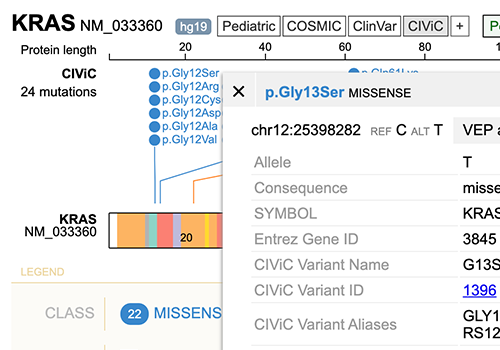
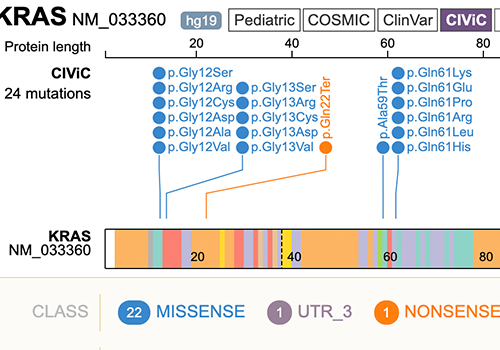
updated homepage ProteinPaint and YouTube text, links

diff --git a/src/app/pages/home.tpl.html b/src/app/pages/home.tpl.html
@@ -57,15 +57,15 @@
     <div class="col-xs-12 col-md-6" >
       <div class="announcement" >
         <div class="announcement-body" style="margin-bottom: 1em;">
-          <p class="date">March 26th, 2020</p>
+          <p class="date">June 29th, 2020</p>
           <div class="row" >
             <div class="col-xs-6">
-              <a href="https://proteinpaint.stjude.org/?gene=KRAS&dataset=civic" target="_blank"><img src="assets/images/partners/protein-paint-integration.png" class="img-responsive" width="500" height="350" style="margin-right: 10px; float: left;" /></a>
+              <a href="https://proteinpaint.stjude.org/?gene=kras&dataset=civic" target="_blank"><img src="assets/images/partners/protein-paint-integration.png" class="img-responsive" width="500" height="350" style="margin-right: 10px; float: left;" /></a>
             </div>
             <div class="col-xs-6">
               <p>
                 <span style="color:#faa51b;">Explore CIViC Variants in ProteinPaint:</span>
-                St. Jude's <a href="https://www.stjude.org/research/shared-resources/technology-licensing/technologies/proteinpaint-web-application-for-visualizing-genomic-data-sj-15-0021.html" tartet="_blank">ProteinPaint</a> now incorporates a CIViC variant track, displaying CIViC curated data along with a variety of additional sources, and providing one-click access to CIViC's variant summaries. We've also added ProteinPaint links to <a href="https://civicdb.org/links/gene/30" target="_blank" uib-tooltip="KRAS">our</a> <a href="https://civicdb.org/links/gene/5" target="_blank" uib-tooltip="BRAF">gene</a> <a href="https://civicdb.org/links/gene/4" target="_blank" uib-tooltip="ABL1">summaries</a>.
+                St. Jude's <a href="https://pecan.stjude.cloud/proteinpaint/" uib-tooltip="ProteinPaint Information" target="_blank">ProteinPaint</a> now incorporates a CIViC variant track, <a href="https://proteinpaint.stjude.org/?gene=kras&dataset=civic" uib-tooltip="KRAS ProteinPaint View" target="_blank">displaying CIViC curated data</a> along with a variety of additional sources, and providing one-click access to CIViC's variant summaries. We've also added ProteinPaint links to <a href="https://civicdb.org/links/gene/30" target="_blank" uib-tooltip="KRAS CIViC View">our</a> <a href="https://civicdb.org/links/gene/5" target="_blank" uib-tooltip="BRAF CIViC View">gene</a> <a href="https://civicdb.org/links/gene/4" target="_blank" uib-tooltip="ABL1 CIViC View">summaries</a>.
               </p>
             </div>
           </div>
@@ -78,7 +78,8 @@
           <p class="date">May 20th, 2019</p>
           <p><span style="color:#faa51b;">New YouTube Tutorials:</span> We've updated the <a href="https://www.youtube.com/playlist?list=PLImz36orVFPCQjx6wjMrYW-IPWGk8HrbX" target="_blank" uib-tooltip="CIViC Tutorials Playlist">CIViC Help playlist</a> with a variety of new video tutorials, helping you to <a href="https://www.youtube.com/watch?v=Vr0BDUKkDeI&list=PLImz36orVFPCQjx6wjMrYW-IPWGk8HrbX&index=2" target="_blank" uib-tooltip="CIViC tutorial - getting started" target="_blank">get started</a> collaborating with us</a> by <a href="https://www.youtube.com/watch?v=7MCWt9qB528&list=PLImz36orVFPCQjx6wjMrYW-IPWGk8HrbX&index=9" target="_blank" uib-tooltip="Collaborating with CIViC Source Suggestions">suggesting sources</a>, <a href="https://www.youtube.com/watch?v=od5Tgdfo6Qs&list=PLImz36orVFPCQjx6wjMrYW-IPWGk8HrbX&index=3" target="_blank" uib-tooltip="CIViC tutorial - Adding evidence">adding</a> and <a href="https://www.youtube.com/watch?v=uss4R20ymPA&list=PLImz36orVFPCQjx6wjMrYW-IPWGk8HrbX&index=3" target="_blank" uib-tooltip="CIViC tutorial - Editing">editing evidence</a>, <a href="https://www.youtube.com/watch?v=Nx8yMcbE2PA&list=PLImz36orVFPCQjx6wjMrYW-IPWGk8HrbX&index=7" target="_blank" uib-tooltip="Adoption of Variant Interpretation Standards and Guidelines in CIViC">and</a> <a href="https://www.youtube.com/watch?v=XVO2_amcF4I&list=PLImz36orVFPCQjx6wjMrYW-IPWGk8HrbX&index=5" target="_blank" uib-tooltip="Collaborating with CIViC Assertions">more</a>. Also, we've produced videos that provide details about our <a href="https://www.youtube.com/watch?v=hGPd1R4-dfQ&list=PLImz36orVFPCQjx6wjMrYW-IPWGk8HrbX&index=6" target="_blank" uib-tooltip="Collaboration between ClinGen Somatic Cancer Clinical Domain Working Group and CIViC">collaborations with ClinGen Working Groups</a> and <a href="https://www.youtube.com/watch?v=nSm-WHpgLCI&list=PLImz36orVFPCQjx6wjMrYW-IPWGk8HrbX&index=4" target="_blank" uib-tooltip="Collaborative Opportunities in CIViC">a new introdution to CIViC collaboration opportunities</a>.
           </p>
-          <p>Please watch the <a href="https://www.youtube.com/playlist?list=PLImz36orVFPCQjx6wjMrYW-IPWGk8HrbX" target="_blank" uib-tooltip="CIViC Tutorials Playlist">new videos</a>, review <a href="https://civic.readthedocs.io/en/latest/" target="_blank" uib-tooltip="CIViC Documentation: Introduction to CIViC">the documentation</a>, and join in helping us curate clinical variants!
+          <p>Please watch the <a href="https://www.youtube.com/playlist?list=PLImz36orVFPCQjx6wjMrYW-IPWGk8HrbX" target="_blank" uib-tooltip="CIViC Tutorials Playlist">new videos</a>, review <a href="https://civic.readthedocs.io/en/latest/" target="_blank" uib-tooltip="CIViC Documentation: Introduction to CIViC">the documentation</a>, and join in helping us curate clinical variants.</p>
+          <p><a href="https://www.youtube.com/channel/UCtZ14M7ZNmMDivSJzaHO8BQ" target="_blank" uib-tooltip="CIViC YouTube Channel">Subscribe to our YouTube channel</a> for future tutorials and presentations!</p>
         </div>
       </div>
     </div>
